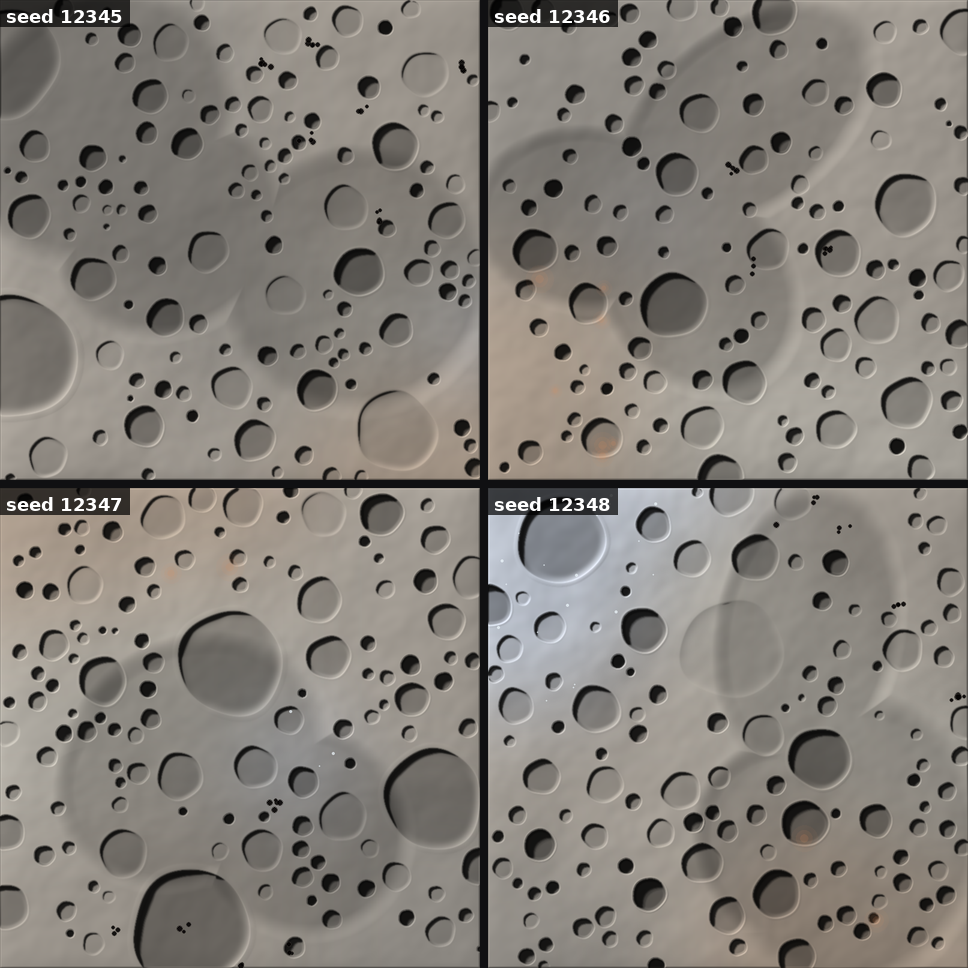
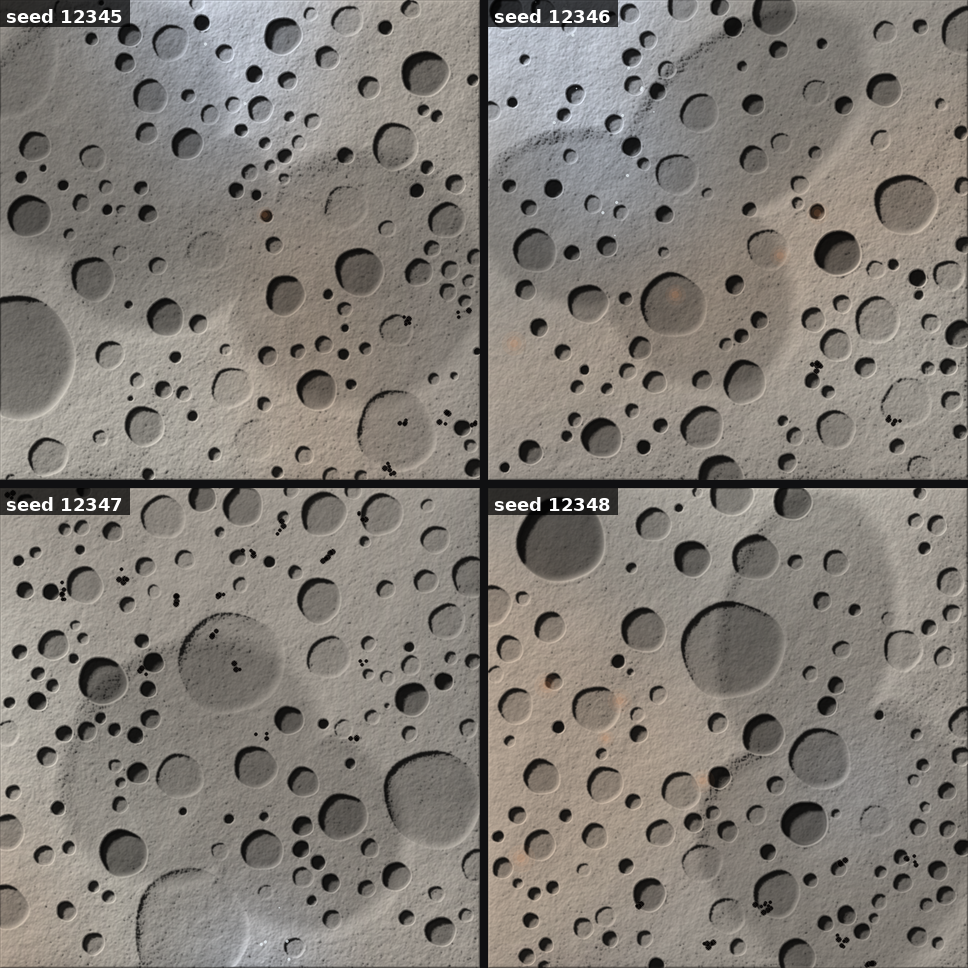
prototype: lock pink-noise texture amp 0.015 + design notes
Bakes the v3 top-left pick (pink (1/f) noise, amp 0.015, no post-blur)
into generate.py's main pipeline plus the seed-variant and
archetype-tile renderers. pink_noise() lives in generate.py now so
the texture-comparison scripts can reuse it.

Also adds SURFACE_DESIGN.md — a living reference for everything in
the pipeline (parameter table, what each stage does, why each value
was picked) plus a prioritised future-work list:

  1. real-LRO calibration A/B
  2. texture follow-ups (per-biome variation, in-game zoom test)
  3. complex-crater morphology (talus, terraces, central peaks)
  4. archetype-aware crater density
  5. lighting refinements (earthshine, varying sun angle)
  6. mare basin re-introduction (without the circular-shadow look)
  7. decals revisit (subtle now that texture is on)
  8. archetype-tile preview improvements
  9. perf
 10. game integration (bake-time vs shader paths)

https://claude.ai/code/session_014xZZbBkCGkgHdGrMSpJjDx

diff --git a/prototypes/planet_visuals/generate.py b/prototypes/planet_visuals/generate.py
@@ -144,6 +144,29 @@ def value_noise(shape, scale, rng):
     return np.clip(arr, 0.0, 1.0)
 
 
+def pink_noise(shape, rng, *, exponent=1.0):
+    """1/f^exponent noise via FFT spectrum shaping. Returns a zero-mean
+    unit-variance float field. Pink (exponent=1) is the spectrum that
+    matches natural rough-surface statistics — used here to add a fine
+    regolith texture between craters.
+    """
+    h, w = shape
+    white = rng.standard_normal(shape).astype(np.float32)
+    spec = np.fft.fft2(white)
+    fy = np.fft.fftfreq(h)[:, None]
+    fx = np.fft.fftfreq(w)[None, :]
+    f = np.sqrt(fx * fx + fy * fy)
+    f[0, 0] = 1.0
+    filt = 1.0 / (f ** exponent)
+    filt[0, 0] = 0.0
+    out = np.real(np.fft.ifft2(spec * filt)).astype(np.float32)
+    out -= out.mean()
+    s = out.std()
+    if s > 1e-6:
+        out /= s
+    return out
+
+
 def fbm(shape, octaves, base_scale, persistence, rng):
     """Fractal Brownian motion: stack value-noise octaves."""
     out = np.zeros(shape, dtype=np.float32)
@@ -695,6 +718,10 @@ def build_planet(seed=SEED):
     print("[3/6] crater field...")
     craters = sample_craters(shape, rng)
     height_with_craters = apply_craters(height_with_mare.copy(), craters, rng)
+    # Add a fine regolith texture: pink (1/f) noise, amp 0.015, no blur.
+    # Picked from the v3 texture-comparison sweep — softest visible level
+    # that still gives the densely-jagged regolith look from LRO photos.
+    height_with_craters = height_with_craters + 0.015 * pink_noise(shape, rng)
     save_gray(height_with_craters, os.path.join(OUT, "stage3_craters.png"))
 
     print("[4/6] hillshade + cast shadows...")
@@ -755,6 +782,7 @@ def render_archetype_tiles():
         h_with = apply_craters(h_with, sample_craters(
             (tile_px, tile_px), local_rng,
             count_small=40, count_med=15, count_big=1), local_rng)
+        h_with = h_with + 0.015 * pink_noise((tile_px, tile_px), local_rng)
         sh = hillshade(h_with, z_factor=35.0, smooth_px=1.0)
         cast = cast_shadows(h_with, z_factor=35.0, max_distance_px=40.0)
         arch_idx = ARCHETYPE_ORDER.index(arch_name)
@@ -877,6 +905,7 @@ def render_seed_variants():
         h2 = apply_craters(h2, sample_craters(
             shape, rng,
             count_small=80, count_med=30, count_big=3), rng)
+        h2 = h2 + 0.015 * pink_noise(shape, rng)
         sh = hillshade(h2, z_factor=35.0, smooth_px=1.0)
         cast = cast_shadows(h2, z_factor=35.0, max_distance_px=40.0)
         ag = assign_archetype_grid(rng)

diff --git a/prototypes/planet_visuals/texture_comparison_v2.py b/prototypes/planet_visuals/texture_comparison_v2.py
@@ -21,7 +21,7 @@ from PIL import Image
 from generate import (
     PLANET_GRID, apply_craters, assign_archetype_grid,
     cast_shadows, colourise, fbm, gaussian_blur, hillshade,
-    label_image, sample_craters,
+    label_image, pink_noise, sample_craters,
 )
 
 OUT = os.path.join(os.path.dirname(__file__), "output")
@@ -30,28 +30,8 @@ SEED = 12345
 
 
 # ---------------------------------------------------------------------------
-# Building blocks reused below
+# Building blocks reused below (pink_noise lives in generate.py now)
 # ---------------------------------------------------------------------------
-
-def pink_noise(shape, rng, *, exponent=1.0):
-    """Generic 1/f^exponent noise via FFT spectrum shaping. Returns a
-    zero-mean unit-variance float field."""
-    h, w = shape
-    white = rng.standard_normal(shape).astype(np.float32)
-    spec = np.fft.fft2(white)
-    fy = np.fft.fftfreq(h)[:, None]
-    fx = np.fft.fftfreq(w)[None, :]
-    f = np.sqrt(fx * fx + fy * fy)
-    f[0, 0] = 1.0
-    filt = 1.0 / (f ** exponent)
-    filt[0, 0] = 0.0
-    out = np.real(np.fft.ifft2(spec * filt)).astype(np.float32)
-    out -= out.mean()
-    s = out.std()
-    if s > 1e-6:
-        out /= s
-    return out
-
 
 def worley_field(shape, rng, *, n_cells=4000, mode="F1"):
     """Worley/cellular noise. mode='F1' returns distance to nearest

diff --git a/prototypes/planet_visuals/SURFACE_DESIGN.md b/prototypes/planet_visuals/SURFACE_DESIGN.md
@@ -1,0 +1,211 @@
+# Planet surface generation — design notes
+
+Living document describing the procedural moon-surface pipeline in
+`generate.py`, what each parameter does, and what's still on the
+table for future iteration.
+
+Use this to pick up where we left off without re-deriving everything.
+
+---
+
+## Pipeline overview
+
+Six stages, each emits a debug PNG to `output/stage*.png`:
+
+1. **Heightmap (FBM)** — multi-octave value-noise FBM, compressed to
+   ~30% amplitude. Provides very gentle regional relief; deliberately
+   small so it doesn't read as basins.
+2. **Mare basins** — *currently disabled*. Mask is still computed for
+   the pipeline diagram but contributes nothing to height or albedo.
+3. **Crater field** — Bridson-ish placement + secondary clusters,
+   profile = flat floor + power-curve wall + tiny rim (no ejecta).
+   Plus a fine pink-noise (1/f) regolith texture added on top.
+4. **Hillshade + cast shadows** — Lambertian shading from a NW sun
+   (azimuth 315°, altitude 35°, z_factor 75) plus a horizon ray-march
+   for cast shadows.
+5. **Archetype tinting** — per-cell `SiteArchetype` picks the base
+   colour. All archetype base colours kept in a tight 138..168
+   brightness range so no biome reads as a shadow patch.
+6. **Decals + dust** — biome-specific decals (lava-tube voids, polar
+   frost glints, KREEP warm bloom) + regolith dust grain.
+
+---
+
+## Parameter reference
+
+### Heightmap (`build_planet`)
+
+| Parameter | Value | Why |
+|---|---|---|
+| `base = fbm(.., 5, 384, 0.5)` | 5 octaves, base scale 384 | Large-scale relief |
+| `detail = fbm(.., 3, 128, 0.5)` | 3 octaves, base scale 128 | Mid-scale variation |
+| `height = 0.92*base + 0.08*detail` | mostly base | Detail almost zero |
+| `(height - mean) * 0.30` | 30% amplitude compression | Otherwise FBM dips read as basins |
+
+### Crater placement (`sample_craters`)
+
+| Parameter | Value | Why |
+|---|---|---|
+| `count_small/med/big` | 140 / 55 / 4 | Sparse density user prefers |
+| Radii ranges | 8-18 / 18-42 / 42-110 px | Power-law size mix |
+| `min_separation` | 1.15 × (r1+r2) | No overlap, breathing room |
+| Bridson growth ratio | 15% near, 85% global | Mostly uniform, Bridson rescue only |
+| Secondary threshold | r > 55 | Only the very biggest spawn rays |
+| Secondaries per primary | 1..3 | Rare visible chains, not clusters |
+| Secondary radii | 4..9 px | Smaller than smallest primary |
+| Secondary placement | annulus 1.8..3.5 r, 55% along 1 of 2 ray angles | Ejecta-chain look |
+
+### Crater profile (`apply_craters`)
+
+| Zone | d range | Shape |
+|---|---|---|
+| Floor | 0..0.70 | Flat at `depth_amp` |
+| Wall | 0.70..0.95 | `depth_amp * (1 - u^p)`, p = 3..5 (deeper = steeper top) |
+| Rim | 0.95..1.05 | Gaussian peak at d=1.00, σ=0.05, height = 5% of depth |
+| Ejecta | — | **Disabled** (was reading as crater overlap) |
+
+| Per-crater random | Distribution | Range |
+|---|---|---|
+| `depth_jitter` | Beta(2.2, 2.2) × 1.6 + 0.15 | 0.15..1.75 |
+| `age` | Beta(2.0, 1.5) (skewed older) | 0..1 |
+| `depth_amp` | -0.42 × sharp × jitter | -0.05 to -0.66 |
+
+`size_factor` was removed deliberately — every radius now draws from
+the same depth distribution so any crater can be deep or shallow.
+
+### Surface texture
+
+```python
+height_with_craters += 0.015 * pink_noise(shape, rng)
+```
+
+Pink noise (1/f spectrum) at amplitude 0.015, no post-blur. Picked
+from the v3 sweep as the softest visible setting that still gives
+the densely-jagged regolith look from LRO photos. Comparison sheets
+in `output/texture_comparison{,_v2,_v3}.png`.
+
+### Lighting
+
+| Parameter | Value | Notes |
+|---|---|---|
+| `azimuth` | 315° (NW) | Standard hillshade convention |
+| `altitude` | 35° | Low enough that small craters cast shadow |
+| `z_factor` | 75 | Vertical exaggeration |
+| `smooth_px` | 1.0 | Pre-blur to suppress single-pixel noise |
+| Cast-shadow ray-march | max 70 px, step 1.5, soft edge band 35% of tan(alt) | Continuous shadow gradient |
+| Floor AO | `1 - clip(depth_below × 0.85, 0, 0.45)` | Crater bottoms ~70% as bright as ground |
+
+### Archetype palette
+
+All `base` colours in 138..168 brightness range:
+
+| Archetype | Base RGB | Tint |
+|---|---|---|
+| MARE_INDUSTRIAL | (138,134,128) | Neutral grey |
+| HIGHLAND_CONSTRUCTION | (162,158,150) | Slightly warm |
+| POLAR_VOLATILE | (168,174,184) | Cool blue |
+| KREEP_SCIENTIFIC | (158,144,130) | Warm tan |
+| LAVA_TUBE | (148,142,134) | Neutral darker grey |
+| MIXED | (152,146,138) | Neutral |
+
+Height-based shadow/high blending was **removed** — it was producing
+soft circular dark patches anywhere the FBM dipped. Albedo is now
+purely the archetype base colour, modulated only by hillshade and
+cast shadows.
+
+---
+
+## Sanity test
+
+`sanity_crater.py` produces `output/sanity_crater.png` — three rows
+of trivial test surfaces (NW ramp, hill, crater) plus a crater-size
+sweep. The hill and crater rows should look like opposites; the
+size sweep should grade from fully-shadowed small craters to lit
+big bowls. Run after any change to lighting math.
+
+---
+
+## Texture comparison sheets
+
+Three iteration rounds, each produced six side-by-side variants:
+
+- `output/texture_comparison.png` (v1) — six fundamentally different
+  approaches: high-freq FBM, micro-crater swarm, Worley, pink (1/f),
+  Gaussian bumps, domain-warped FBM.
+- `output/texture_comparison_v2.png` — softer variants of pink + Worley
+  family: pink soft, redshift, brown, pink+blur, Worley smoothed,
+  Worley+pink blend.
+- `output/texture_comparison_v3.png` — pink-noise softness sweep:
+  amplitude {0.015, 0.022, 0.030} × blur sigma {0, 1.5}.
+
+The current pipeline uses v3 top-left: pink, amp=0.015, blur=0.
+
+---
+
+## Future work (in rough priority)
+
+### 1. Real-data calibration
+Find LRO close-up patches at the same scale as our render and place
+side by side. We've been calibrating against my mental model of
+LRO photos; a literal A/B comparison would surface what's still off.
+
+### 2. Texture follow-ups
+- Try other amp/blur cells from v3 in-game and see what reads best at
+  game zoom (the 600-px comparison panels may not be the right scale).
+- Worley + pink blend (v2 #6) was my second pick; could be revisited.
+- Texture currently constant across the whole planet — could vary by
+  archetype (e.g., polar = smoother / icier, KREEP = grainier).
+
+### 3. Crater morphology gaps
+- Complex craters (large primaries) should have terraced walls and
+  central peaks. The Gaussian-bump central peak we deleted needs to
+  come back with proper morphology — talus around the peak, not a
+  bare dome.
+- Old / eroded craters could have visibly degraded rims and partially
+  filled floors. Currently `age` only damps depth and rim height.
+- Crater-on-crater overlap with the older one partially destroyed
+  ("saturation equilibrium" look) — ruled out for this round but
+  noted as real lunar morphology.
+
+### 4. Distribution refinements
+- Archetype-aware density: mare regions should be sparser (younger),
+  highlands denser (older / saturated).
+- Better secondary chains: currently 55% biased to one of two random
+  ray directions; real chains follow more discrete radial rays from
+  the primary impact.
+
+### 5. Lighting + shading
+- Sun angle is fixed at NW altitude 35°. Could vary per planet seed
+  for different "times of day" looks.
+- Could add a subtle limb-darkening / fall-off near the planet edges
+  so the rectangular grid doesn't read as such.
+- Earthshine: a faint blue-tinted fill light from the opposite
+  direction would soften deep cast shadows.
+
+### 6. Mare basin re-introduction
+We disabled mare because the soft circular dark patches read as ugly
+shadows. They were the only physically-meaningful regional dark
+feature, though. Future attempts: make them less circular (heavily
+distorted boundaries), apply only as a subtle albedo shift not a
+height delta, and limit to one per planet maximum.
+
+### 7. Decals revisit
+Lava-tube void rosettes, polar frost glints, KREEP warm bloom are
+present but very subtle. With the surface texture now in place they
+might need recalibration to remain visible.
+
+### 8. Archetype tile preview
+The archetype-tile strip (`output/archetype_tiles.png`) is useful for
+tuning per-biome looks in isolation but doesn't reflect any
+biome-specific decals or future-work biome textures.
+
+### 9. Performance
+Current full-pipeline runtime at 1600×1600: a few seconds. Acceptable
+for a prototype. For run-time bake at game start, the heaviest costs
+are the cast-shadow ray-march and pink-noise FFT.
+
+### 10. Game integration
+Not started. Two paths laid out in the README: bake-time (port to C++
+once, save a per-seed PNG, load via existing `LoadMoonTiles()`) or
+run-time (port noise + hillshade to a fragment shader). Bake-time is
+the cheaper integration path.
